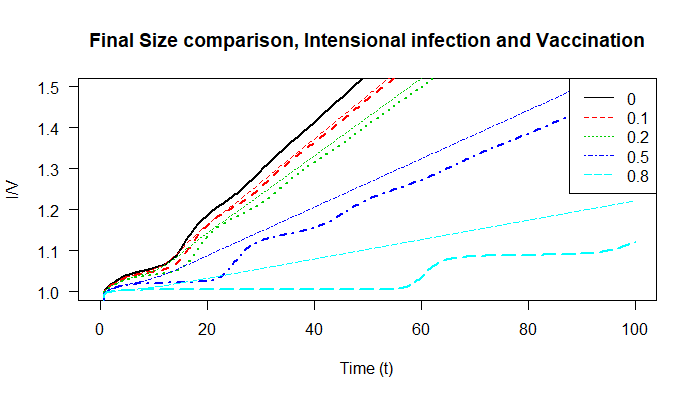
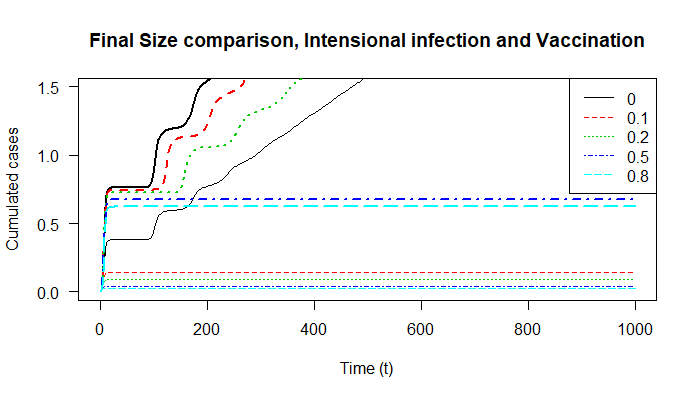
Rogerzhang

diff --git a/README.md b/README.md
@@ -71,3 +71,12 @@
 
 - As for the e-folding time. I plotted it. But it looks abnormal. It somehow behaves like a hyperbola.
 
+## 23 March 2018
+
+- Please take a look at the "computation" pdf file. I made a simple computation on the system to show if there is a damped oscillation. However I find it hard to find the eigenvalues of Jacobian.
+
+- I also made a plot "comparision between intensional infection and vaccination". The thinner line is vaccination and thick line is intensional infection.
+    - This time I made some major adjustment. I seperated the intensional infected cases and normally infected cases. It is meaningful to look at the cumulative NORMALLY infected cases only.
+    - After plotting the normally infected cases and infected cases of vaccination. I indeed see a much lower proportion in normally infected cases. 
+    - Generally speaking, in my model, intensional infection takes a lower proportion of treatment compare to vaccination, to control the final size. (See the graph when p=0.1, intensional infection can reach a final size and no longer growing, meaning there is almost no new cases coming in, while vaccination final size still diverge to infinity)
+    - The above observation may be able to explain the benefit of intensional infection, IF the intensional infected cases can pass on to someone else and act like a vaccine that can be passed on by normal contact.
